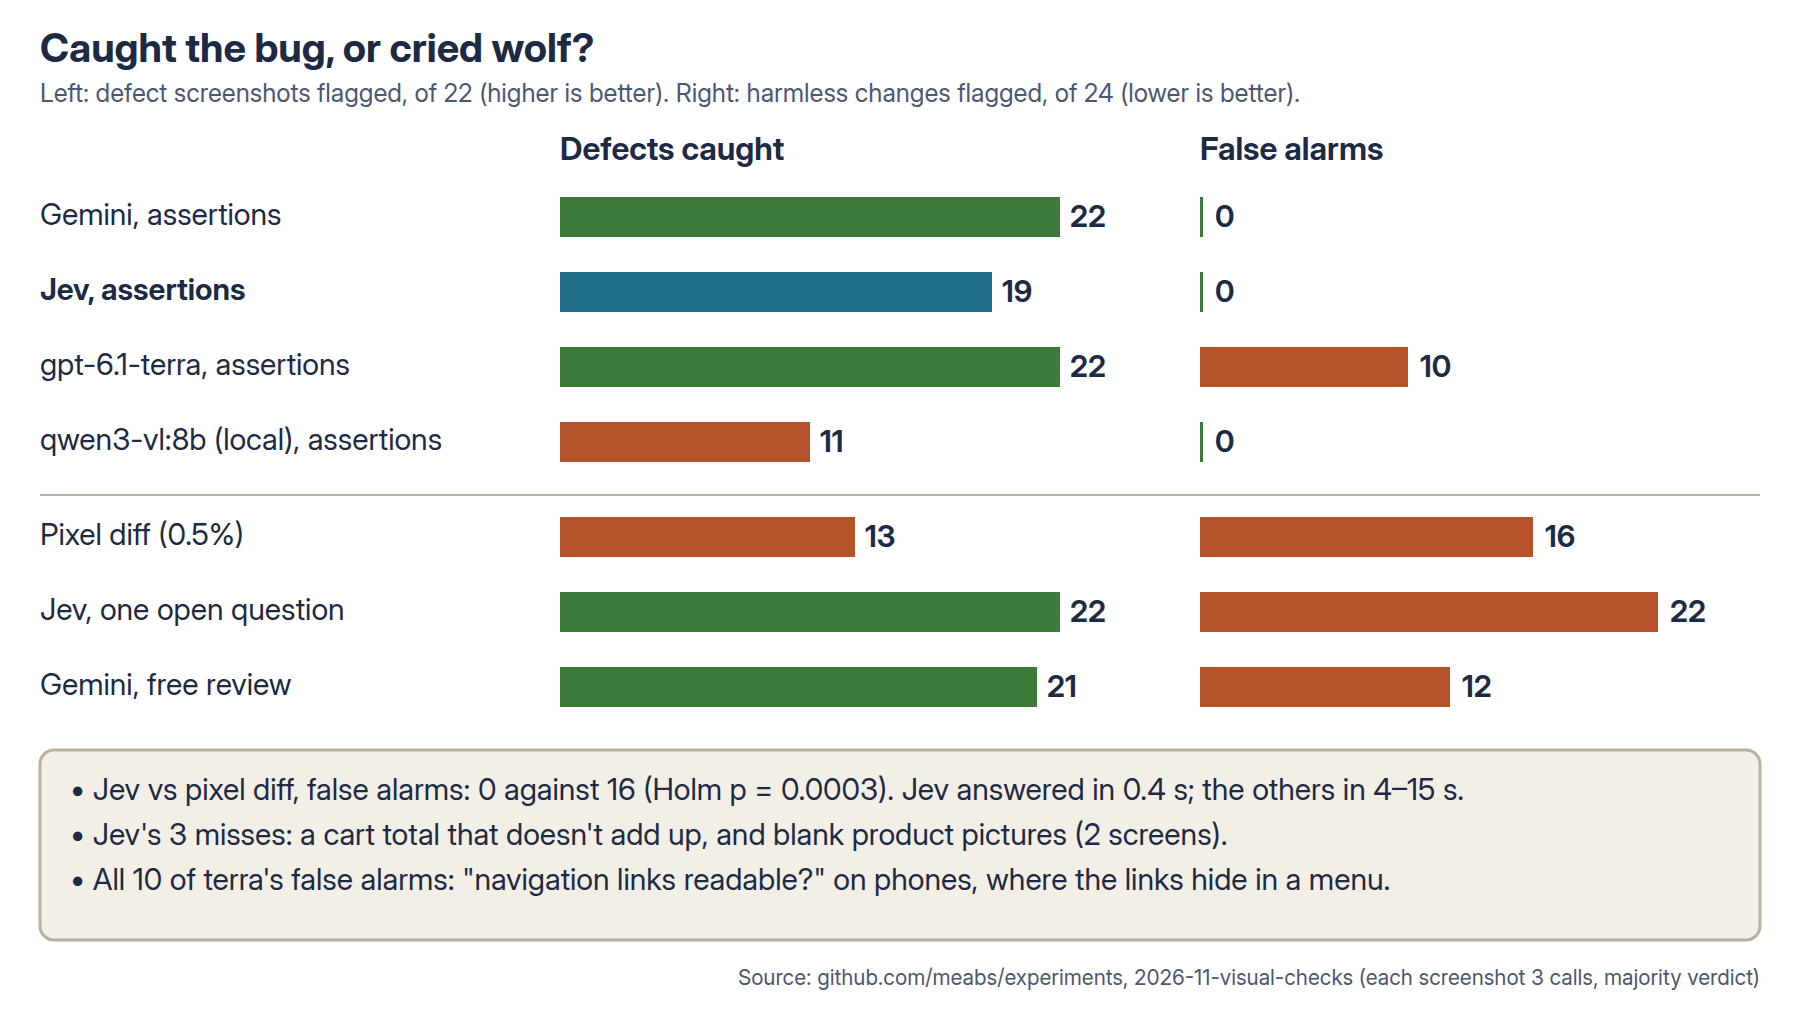
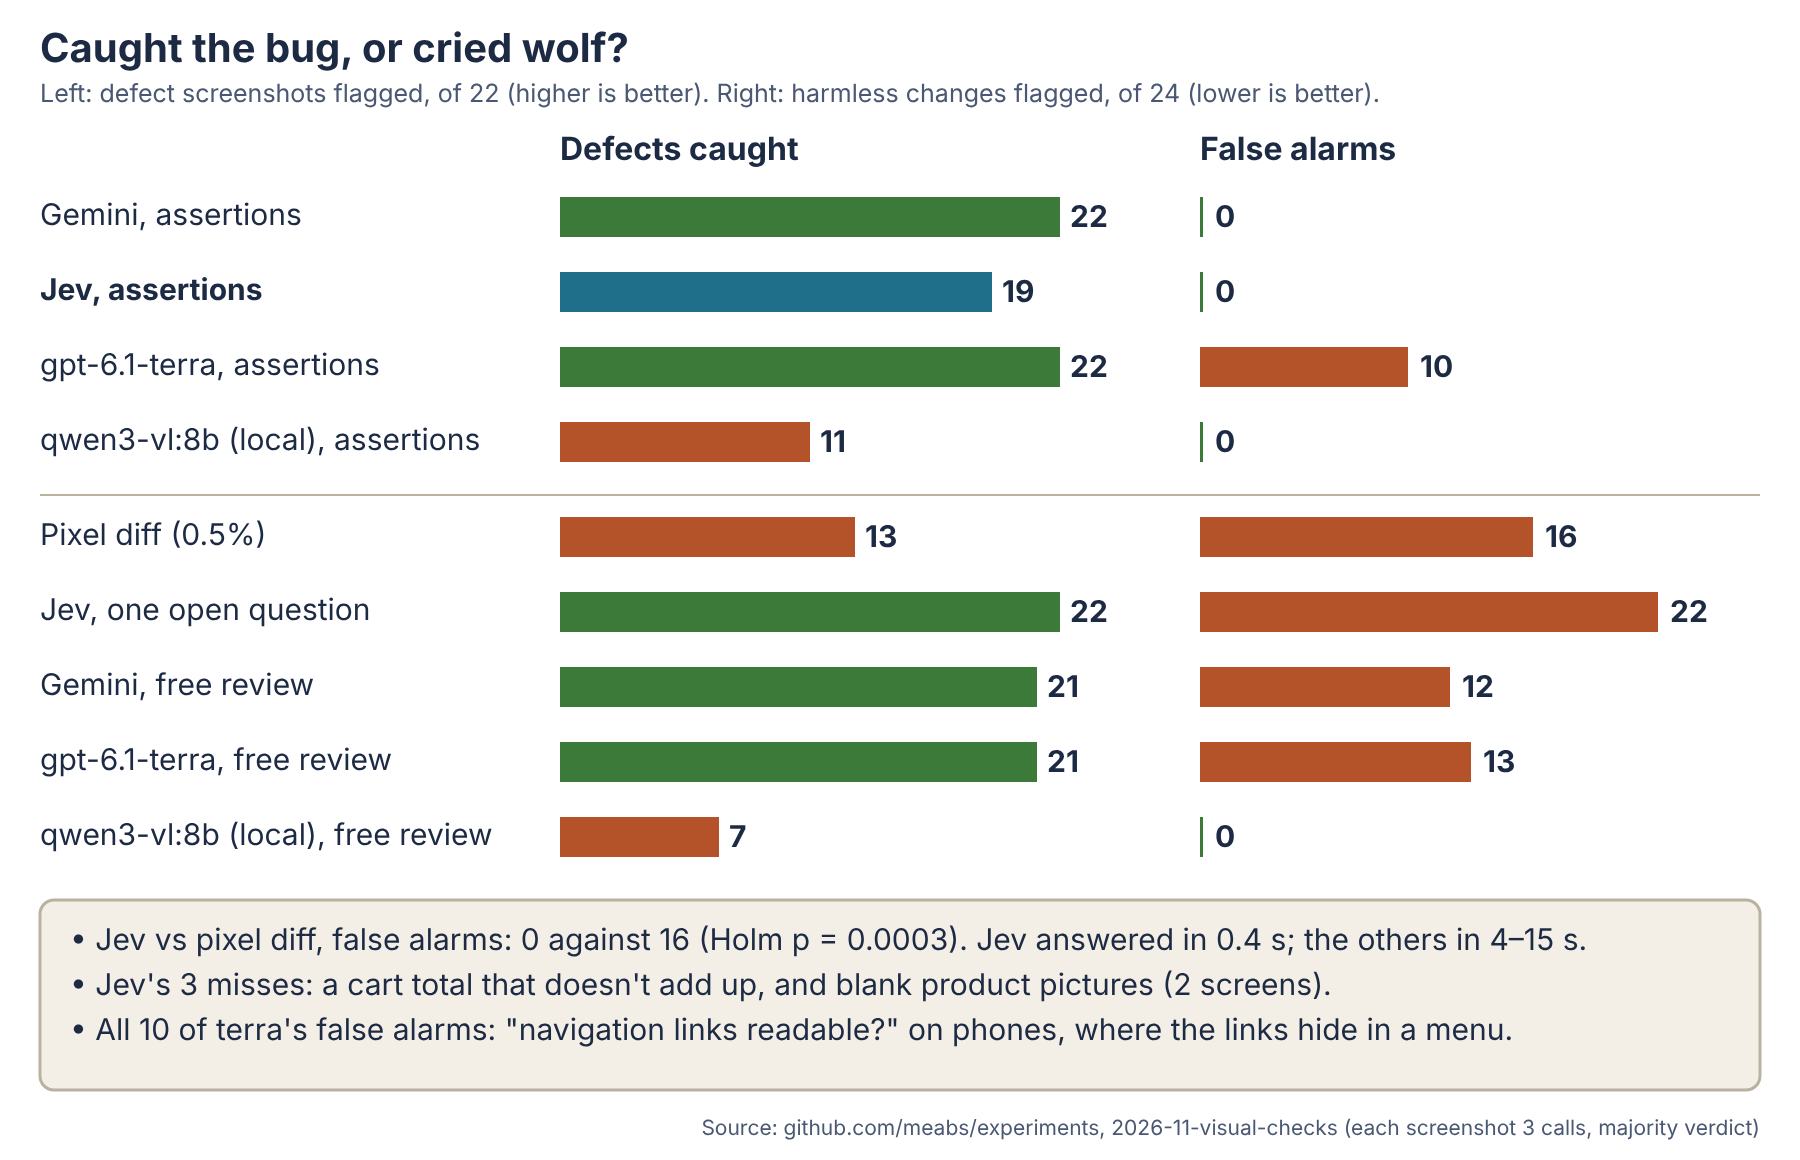
VIS: reviewer corrections (H2 wording, 12 times faster, noul, free-review chart rows, timing basis, pricing date) (#110)
Claude-Session: https://claude.ai/code/session_01Hj6qNd1Kf9Co6xSycBr6zH

diff --git a/src/content/experiments/visual-checks.md b/src/content/experiments/visual-checks.md
@@ -15,7 +15,7 @@ evidenceGrade: published
 agents:
   - name: "Jev"
     model: "jev-latest 1.14.0 (TypeSafe, hosted)"
-    settings: "yes/no (noul) questions, all of a screen's assertions in one request; flag below 0.5"
+    settings: "yes/no questions (Jev calls this question type a noul: it answers with a probability of yes), all of a screen's assertions in one request; flag below 0.5"
   - name: "Vision models"
     model: "google/gemini-4-argon, openai/gpt-6.1-terra (OpenRouter); qwen3-vl:8b (local, Ollama)"
     settings: "same assertions, answered yes or no; and a free review"
@@ -24,7 +24,7 @@ repo: "https://github.com/meabs/experiments"
 report: "https://github.com/meabs/experiments/blob/06234b11a0ebc11e35706beac8fc701ff699af63/2026-11-visual-checks/REPORT.md"
 prediction: "https://github.com/meabs/experiments/blob/d3e16f4463cb15a25efe3119b16aed9faf8a3159/2026-11-visual-checks/README.md"
 previewImage: "/guide-images/chart-visual-checks.png"
-previewAlt: "Defects caught of 22 (higher is better) and false alarms on harmless changes of 24 (lower is better). Gemini assertions 22 and 0; Jev assertions 19 and 0; gpt-6.1-terra assertions 22 and 10; local qwen3-vl:8b assertions 11 and 0; pixel diff 13 and 16; Jev open question 22 and 22; Gemini free review 21 and 12."
+previewAlt: "Defects caught of 22 (higher is better) and false alarms on harmless changes of 24 (lower is better). Gemini assertions 22 and 0; Jev assertions 19 and 0; gpt-6.1-terra assertions 22 and 10; local qwen3-vl:8b assertions 11 and 0; pixel diff 13 and 16; Jev open question 22 and 22; Gemini free review 21 and 12; gpt-6.1-terra free review 21 and 13; local qwen3-vl:8b free review 7 and 0."
 topics:
   - verification
   - review
@@ -86,7 +86,7 @@ That's the job here. A web change can pass every unit test and still ship a brok
 
 Jev needs questions it can answer, so each screen got a short checklist written from what the page must show ("Is a cart total shown, and is it equal to the sum of the line subtotals?"). I compared Jev with Gemini, GPT and a local vision model answering the same checklist, with a pixel diff, and with Jev asked one open question: is anything wrong?
 
-**The short answer:** with the checklist, Jev answered ten times faster than the vision models and never cried wolf, unlike the pixel diff. But it missed three bugs that needed adding up or noticing something missing, and Gemini, with the same questions, caught everything. Asked "is anything wrong?", Jev flagged almost every screen.
+**The short answer:** with the checklist, Jev answered about 12 times faster than Gemini (0.4 s against 4.8 s a call) and never cried wolf, unlike the pixel diff. But it missed three bugs that needed adding up or noticing something missing, and Gemini, with the same questions, caught everything. Asked "is anything wrong?", Jev flagged almost every screen.
 
 ## How the checks work
 
@@ -130,7 +130,7 @@ Findings VIS-1 to VIS-3 are at the top of the page.
 
 <figure class="guide-figure">
 
-<img src="/guide-images/chart-visual-checks.png" alt="Caught the bug, or cried wolf? Defects caught of 22 (higher is better) and false alarms on harmless changes of 24 (lower is better). Gemini, assertions: 22 and 0. Jev, assertions: 19 and 0. gpt-6.1-terra, assertions: 22 and 10. qwen3-vl:8b local, assertions: 11 and 0. Pixel diff at 0.5%: 13 and 16. Jev, one open question: 22 and 22. Gemini, free review: 21 and 12. Jev against the pixel diff on false alarms: 0 against 16, Holm p = 0.0003; Jev answered in 0.4 s, the others in 4 to 15 s. Jev's 3 misses: a cart total that doesn't add up, and blank product pictures on 2 screens. All 10 of terra's false alarms: navigation links readable, on phones, where the links hide in a menu." width="1800" height="1010" loading="lazy" />
+<img src="/guide-images/chart-visual-checks.png" alt="Caught the bug, or cried wolf? Defects caught of 22 (higher is better) and false alarms on harmless changes of 24 (lower is better). Gemini, assertions: 22 and 0. Jev, assertions: 19 and 0. gpt-6.1-terra, assertions: 22 and 10. qwen3-vl:8b local, assertions: 11 and 0. Pixel diff at 0.5%: 13 and 16. Jev, one open question: 22 and 22. Gemini, free review: 21 and 12. gpt-6.1-terra, free review: 21 and 13. qwen3-vl:8b local, free review: 7 and 0. Jev against the pixel diff on false alarms: 0 against 16, Holm p = 0.0003; Jev answered in 0.4 s, the others in 4 to 15 s. Jev's 3 misses: a cart total that doesn't add up, and blank product pictures on 2 screens. All 10 of terra's false alarms: navigation links readable, on phones, where the links hide in a menu." width="1800" height="1160" loading="lazy" />
 
 <figcaption>Source: github.com/meabs/experiments, 2026-11-visual-checks (each screenshot 3 calls, majority verdict).</figcaption>
 
@@ -143,17 +143,17 @@ Of 22 defect screenshots, 24 harmless changes and 8 untouched screens:
 | Checker | Defects caught (higher is better) | False alarms, harmless changes (lower is better) | False alarms, untouched (lower is better) | Median seconds per call |
 | --- | --- | --- | --- | --- |
 | **Jev, assertions** | 19 | **0** | **0** | **0.4** |
-| Gemini, assertions | **22** | **0** | **0** | 4.9 |
+| Gemini, assertions | **22** | **0** | **0** | 4.8 |
 | gpt-6.1-terra, assertions | **22** | 10 | 3 | 4.1 |
-| qwen3-vl:8b (local), assertions | 11 | **0** | **0** | 9.0 |
+| qwen3-vl:8b (local), assertions | 11 | **0** | **0** | 8.9 |
 | Pixel diff | 13 | 16 | **0** | 0.0 |
 | Jev, open question | **22** | 22 | 7 | 0.4 |
 | Gemini, free review | 21 | 12 | 5 | 5.8 |
 | gpt-6.1-terra, free review | 21 | 13 | 4 | 4.8 |
-| qwen3-vl:8b (local), free review | 7 | **0** | 1 | 15.2 |
+| qwen3-vl:8b (local), free review | 7 | **0** | 1 | 15.1 |
 
 - **H1, supported:** Jev's assertions against the pixel diff on harmless changes, 0 against 16 of 24 (Holm p = 0.0003).
-- **H2, not supported:** Jev 19 against Gemini's 22 of 22. The difference is −14 points, with a 95% interval from −37 to 0, so I can't rule out that Jev is clearly worse.
+- **H2, not supported:** Jev 19 against Gemini's 22 of 22. The difference is −14 points, with a 95% interval from −37 to 0, so Jev might be about as good as Gemini or much worse.
 - **H3, not supported:** the open question caught all 22, but only by flagging almost everything.
 - **H4, no difference:** Jev and Gemini both had no false alarms.
 
@@ -172,10 +172,12 @@ One call per screenshot, as a CI gate would make (this run made three):
 | Pixel diff | $0 | $0 | under 0.1 |
 | **Jev, assertions** | **$0.00017** | **$1.69** | **0.4** |
 | gpt-6.1-terra, assertions | $0.0015 | $14.78 | 4.1 |
-| Gemini, assertions | $0.0036 | $35.71 | 4.9 |
+| Gemini, assertions | $0.0036 | $35.71 | 4.8 |
 | qwen3-vl:8b (local), assertions | $0 in API fees | about 33 hours of GPU time | 8.9 |
 
-- **Jev against Gemini, same questions:** about 21 times cheaper and 12 times faster, for 3 fewer bugs caught of 22 and the same zero false alarms. Jev's price is TypeSafe's list price for `jev-1.14.0`, $0.042 per million input tokens (output free), applied to the tokens it used. The others are OpenRouter's billed cost.
+Times in both tables are the median of a checker's 162 calls. The "about 33 hours of GPU time" is different: it is 10,000 calls at qwen's mean of 11.9 s, because a few of its calls were much slower than the median of 8.9 s.
+
+- **Jev against Gemini, same questions:** about 21 times cheaper and 12 times faster, for 3 fewer bugs caught of 22 and the same zero false alarms. Jev's price is TypeSafe's list price for `jev-1.14.0`, $0.042 per million input tokens (output free), from TypeSafe's models page on 3 November 2026, applied to the tokens it used. The others are OpenRouter's billed cost.
 - **But none of these bills is large.** Gemini for 10,000 screenshots is about $36. The cost that matters more is a person's time: each false alarm needs someone to look, and each miss ships a bug. At this run's rates, 100 harmless changes would raise about 67 alarms from the pixel diff, 42 from gpt-6.1-terra's assertions, and none from Jev's or Gemini's.
 
 ### Exploratory follow-up
@@ -201,7 +203,7 @@ This part is my interpretation, not a measurement.
 
 **Writing down what each screen must show is what made the models useful.** Three of the four assertion checkers raised no false alarms on any harmless change. The general question ("is anything broken?") didn't work with any model.
 
-**Gemini, not Jev, was the strongest checker here,** with all 22 bugs and no false alarms. Jev was ten times faster and a twentieth of the price, but missed three. With 22 bug screenshots, that shows neither that Gemini is better in general nor that Jev is about as good; its three misses could matter.
+**Gemini, not Jev, was the strongest checker here,** with all 22 bugs and no false alarms. Jev was about 12 times faster than Gemini and a twentieth of the price, but missed three. With 22 bug screenshots, that shows neither that Gemini is better in general nor that Jev is about as good; its three misses could matter.
 
 **Some of these bugs didn't need a model at all.** A wrong total can be calculated, and a blank picture shows up as an image that failed to load. Visual checking is really three questions, and no single checker here answers all of them:
 
@@ -231,7 +233,7 @@ For teams adding visual checks to CI. Each says how strong its evidence is.
 
 These are proposals, not results.
 
-- **A hybrid gate against AI-only gates,** on the same screenshots plus real bugs from a project's history: deterministic Playwright and DOM checks only; Gemini with visual assertions; Jev with visual assertions; and deterministic checks plus targeted visual assertions, sending only unclear failures to a stronger model. Measure bugs caught, false alarms, review time, total cost, and which bugs get past every layer. A reviewer suggested this, and it's the most useful next step.
+- **A hybrid gate against AI-only gates,** on the same screenshots plus real bugs from a project's history: deterministic Playwright and DOM checks only; Gemini with visual assertions; Jev with visual assertions; and deterministic checks plus targeted visual assertions, sending only unclear failures to a stronger model. Measure bugs caught, false alarms, review time, total cost, and which bugs get past every layer. It's the most useful next step.
 - **Jev without the arithmetic:** assertions that never ask it to add up or compare, with totals checked in code.
 - **Real regressions** from a project's history instead of planted ones.
 - **Assertions written by someone else,** or generated from the requirements, to see how much depends on the writer.
